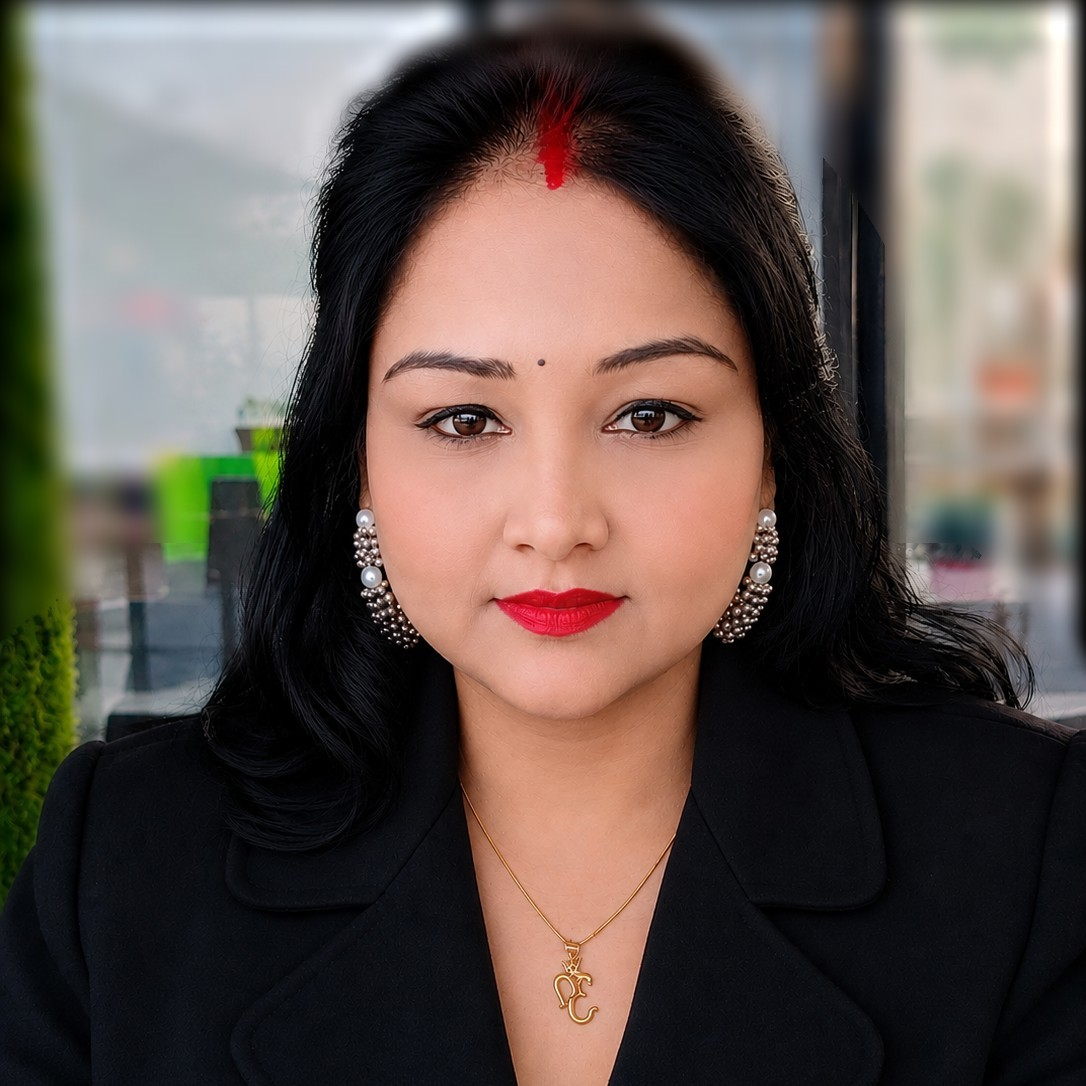
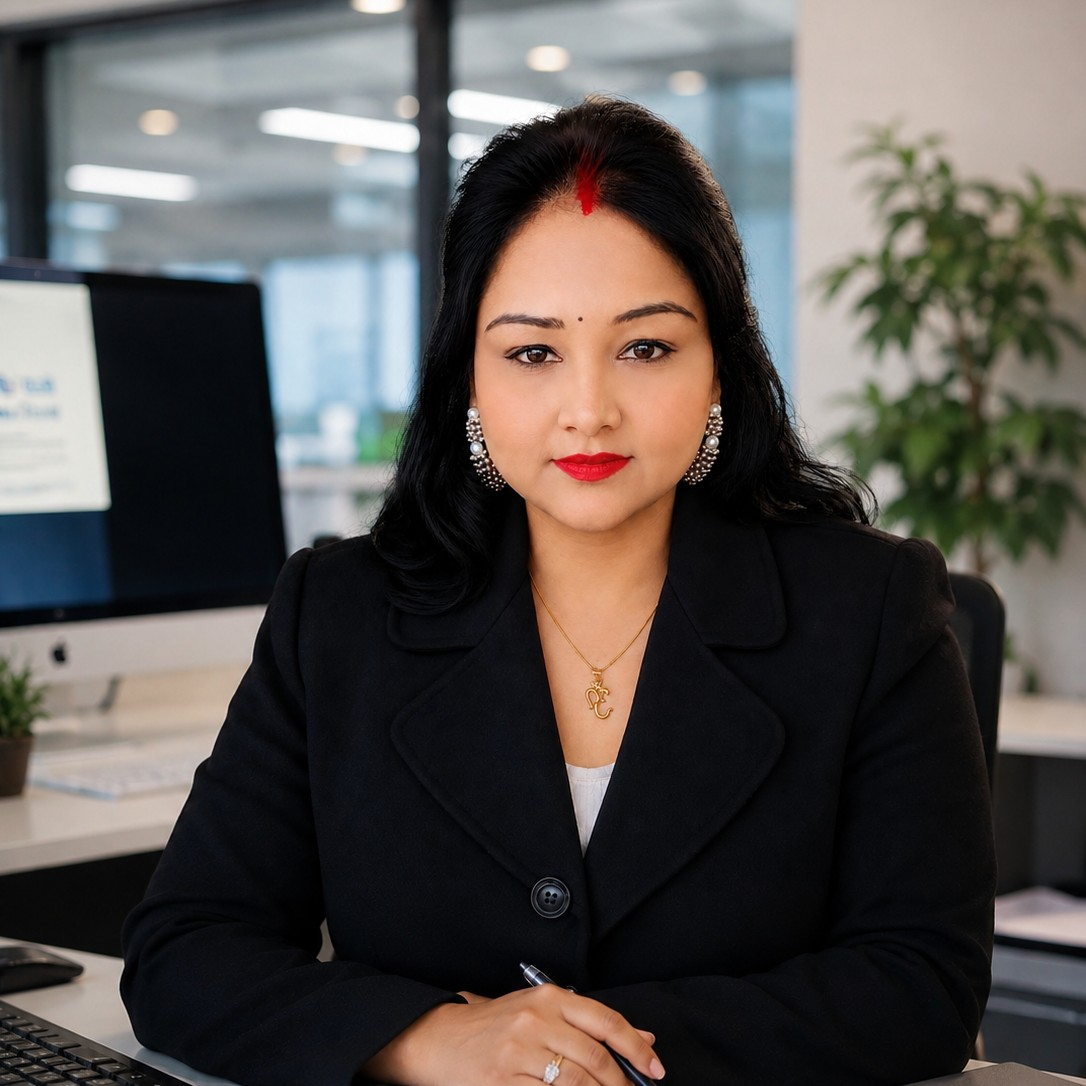
feat: add PartnerMarquee component and include new team member portrait images

diff --git a/src/components/PartnerMarquee.tsx b/src/components/PartnerMarquee.tsx
@@ -3,22 +3,22 @@
 import Image from "next/image";
 
 const clientLogos = [
-  { name: "Shalimar Paints", src: "/images/logos/shalimar.png" },
-  { name: "Zar", src: "/images/logos/zar.gif" },
-  { name: "Raymax", src: "/images/logos/raymax.png" },
-  { name: "Popular Paints", src: "/images/logos/popular.png" },
-  { name: "Ozell Cooner", src: "/images/logos/ozell.jpg" },
-  { name: "Nexon Paints", src: "/images/logos/nexon.jpg" },
-  { name: "Nippon Paint", src: "/images/logos/nippon-paint.png" },
-  { name: "National Paints", src: "/images/logos/national.jpg" },
-  { name: "Modi Paints", src: "/images/logos/modi-paints.jpg" },
-  { name: "Woodco Paints", src: "/images/logos/woodco.png" },
-  { name: "Kamdhenu Paints", src: "/images/logos/kamdhenu.jpg" },
-  { name: "JK Protomax", src: "/images/logos/jk-protomax.png" },
-  { name: "Valcoat Paints", src: "/images/logos/valcoat.png" },
-  { name: "AkzoNobel", src: "/images/logos/akzonobel.png" },
   { name: "JSW Dulux", src: "/images/logos/jsw-dulux.webp" },
-  { name: "Toyo Ink", src: "/images/logos/toyo-ink.png" }
+  { name: "AkzoNobel", src: "/images/logos/akzonobel.png" },
+  { name: "Nippon Paint", src: "/images/logos/nippon-paint.png" },
+  { name: "Shalimar Paints", src: "/images/logos/shalimar.png" },
+  { name: "Kamdhenu Paints", src: "/images/logos/kamdhenu.jpg" },
+  { name: "National Paints", src: "/images/logos/national.jpg" },
+  { name: "Nexon Paints", src: "/images/logos/nexon.jpg" },
+  { name: "Raymax Paints", src: "/images/logos/raymax.png" },
+  { name: "Valcoat Paints", src: "/images/logos/valcoat.png" },
+  { name: "Colour Pacific", src: "/images/logos/popular.png" },
+  { name: "Modi Paints", src: "/images/logos/modi-paints.jpg" },
+  { name: "JK Protomax", src: "/images/logos/jk-protomax.png" },
+  { name: "Toyo Ink", src: "/images/logos/toyo-ink.png" },
+  { name: "Woodco Paints", src: "/images/logos/woodco.png" },
+  { name: "Ozell Cooner", src: "/images/logos/ozell.jpg" },
+  { name: "Zar", src: "/images/logos/zar.gif" },
 ];
 
 interface PartnerMarqueeProps {
@@ -27,26 +27,40 @@ interface PartnerMarqueeProps {
 
 export function PartnerMarquee({ title = "Trusted by Paint Operators & Corporate Partners" }: PartnerMarqueeProps) {
   return (
-    <section className="bg-white py-16 overflow-hidden border-t border-b border-slate-100">
-      <div className="max-w-[1400px] mx-auto px-6 mb-8">
-        <div className="text-center text-xs uppercase tracking-[0.2em] text-slate-400 font-medium">
+    <section className="bg-slate-50/70 py-16 sm:py-20 overflow-hidden border-t border-b border-slate-200/80">
+      <div className="max-w-[1400px] mx-auto px-6 mb-10 text-center">
+        <span className="inline-flex items-center gap-1.5 px-3.5 py-1 bg-[#0A4ABF]/10 border border-[#0A4ABF]/20 rounded-full text-[#0A4ABF] text-[11px] uppercase tracking-[0.25em] font-semibold mb-3">
+          Industry Alliances
+        </span>
+        <h3 className="text-xl sm:text-2xl md:text-3xl font-display font-medium text-[#071A35]">
           {title}
-        </div>
+        </h3>
+        <p className="text-slate-500 text-xs sm:text-sm font-light mt-2 max-w-xl mx-auto">
+          Supplying high-performance tinting machinery, colorants, and AMC solutions to India&apos;s foremost coatings manufacturers.
+        </p>
       </div>
-      <div className="flex overflow-hidden select-none gap-10 w-full relative">
-        <div className="absolute left-0 top-0 bottom-0 w-32 bg-gradient-to-r from-white to-transparent z-10" />
-        <div className="absolute right-0 top-0 bottom-0 w-32 bg-gradient-to-l from-white to-transparent z-10" />
-        
-        <div className="flex gap-16 shrink-0 animate-marquee min-w-full justify-around items-center py-4">
+
+      <div className="flex overflow-hidden select-none gap-6 w-full relative">
+        {/* Soft edge gradient fades */}
+        <div className="absolute left-0 top-0 bottom-0 w-24 sm:w-44 bg-gradient-to-r from-slate-50 to-transparent z-10 pointer-events-none" />
+        <div className="absolute right-0 top-0 bottom-0 w-24 sm:w-44 bg-gradient-to-l from-slate-50 to-transparent z-10 pointer-events-none" />
+
+        {/* Marquee track with pause on hover */}
+        <div className="flex gap-6 shrink-0 animate-marquee min-w-full items-center py-4 hover:[animation-play-state:paused]">
           {clientLogos.concat(clientLogos).map((logo, idx) => (
-            <div key={idx} className="relative h-12 w-36 shrink-0 filter grayscale opacity-60 hover:grayscale-0 hover:opacity-100 transition-all duration-300">
-              <Image
-                src={logo.src}
-                alt={logo.name}
-                fill
-                className="object-contain"
-                sizes="150px"
-              />
+            <div
+              key={`${logo.name}-${idx}`}
+              className="relative h-20 sm:h-24 w-44 sm:w-56 shrink-0 bg-white border border-slate-200/90 rounded-2xl px-5 py-3.5 flex items-center justify-center shadow-[0_2px_8px_rgba(7,26,53,0.04)] hover:shadow-[0_8px_24px_rgba(7,26,53,0.1)] hover:border-[#00AEEF]/50 transition-all duration-300 hover:scale-[1.04] group cursor-pointer"
+            >
+              <div className="relative h-full w-full flex items-center justify-center">
+                <Image
+                  src={logo.src}
+                  alt={logo.name}
+                  fill
+                  className="object-contain transition-transform duration-300 group-hover:scale-105"
+                  sizes="(max-width: 768px) 180px, 230px"
+                />
+              </div>
             </div>
           ))}
         </div>
